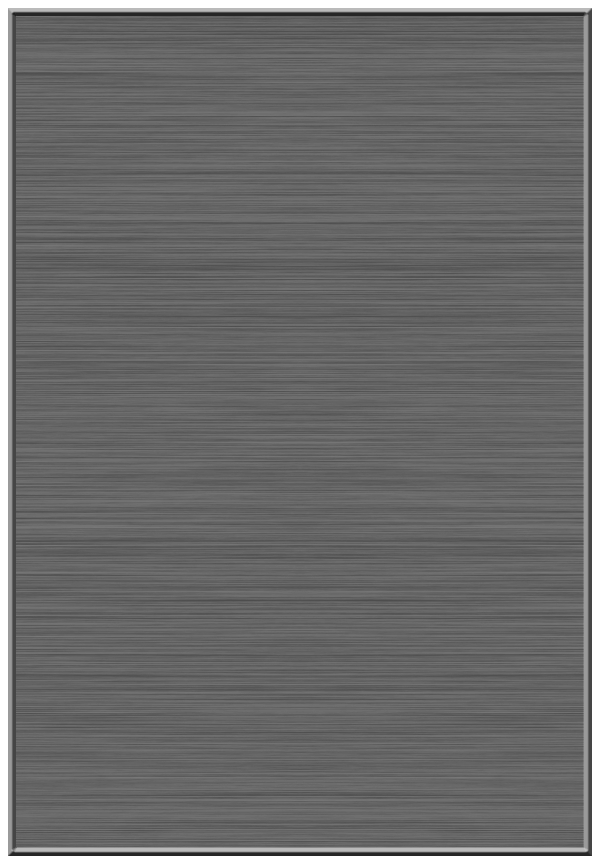
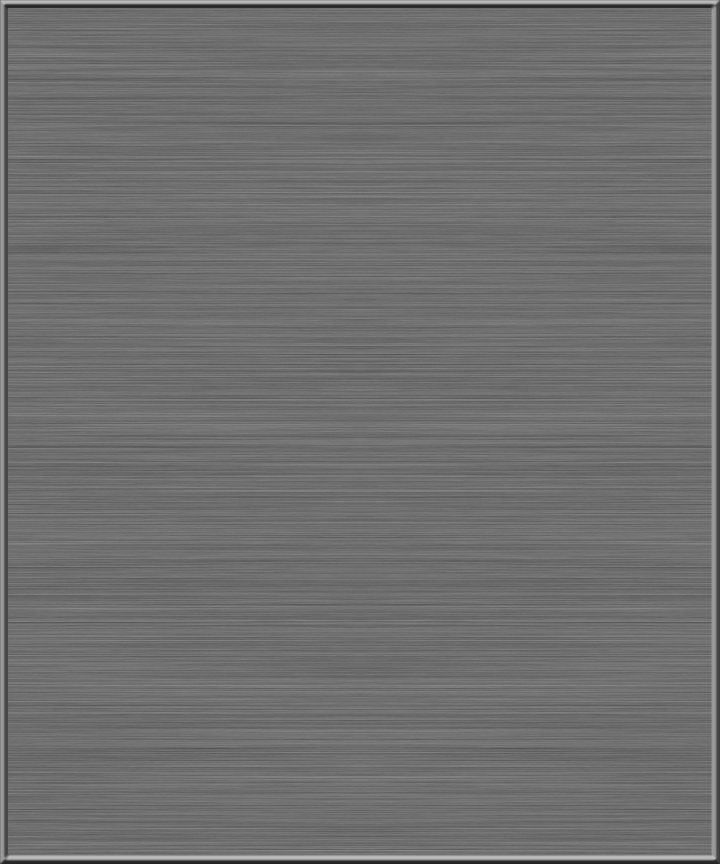
和了り画面のウィンドウ幅を600から720に変更

diff --git a/graphic/scenes/tablesub/agariscr.h b/graphic/scenes/tablesub/agariscr.h
@@ -11,9 +11,9 @@ namespace mihajong_graphic {
 
 class TableSubsceneAgariScreenProto : public TableSubscene {
 protected:
-	static const int BaseX = ((signed)Geometry::BaseSize - 600) / 2;
+	static const int BaseX = ((signed)Geometry::BaseSize - 720) / 2;
 	static const int BaseY = ((signed)Geometry::BaseSize - 864) / 2;
-	static const unsigned yakuWndWidth  = 600u;
+	static const unsigned yakuWndWidth  = 720u;
 	static const unsigned yakuWndHeight = 864u;
 	double seconds() {return (double)(currTime() - startTime) / 10000000.0;}
 protected:
